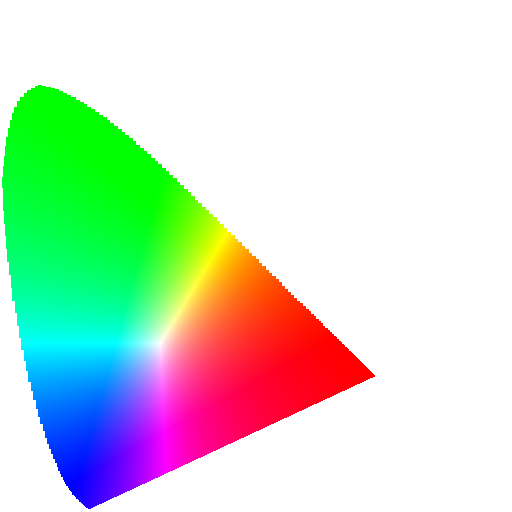
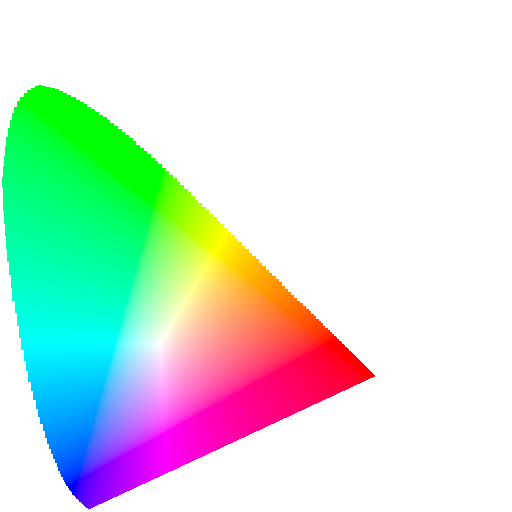
Added missing linear to non-linear conversion.

Changed region(s): [[0.0, 0.1875, 0.7188, 1.0]]

diff --git a/src/main.cpp b/src/main.cpp
@@ -52,6 +52,11 @@ int main(int argc, char* argv[])
 	}
 	printf("Saved '%s'\n", filename.c_str());
 
+	// Convert from linear to non-linear space.
+	imageData.modify([&](const glm::vec4& color, const glm::vec2& fraction, const glm::vec2& coordinate) {
+		return glm::vec4(SRGB_2_nlSRGB(glm::vec3(color)), color.a);
+	});
+
 	filename = "test.png";
 	if (!save(imageData, filename))
 	{
